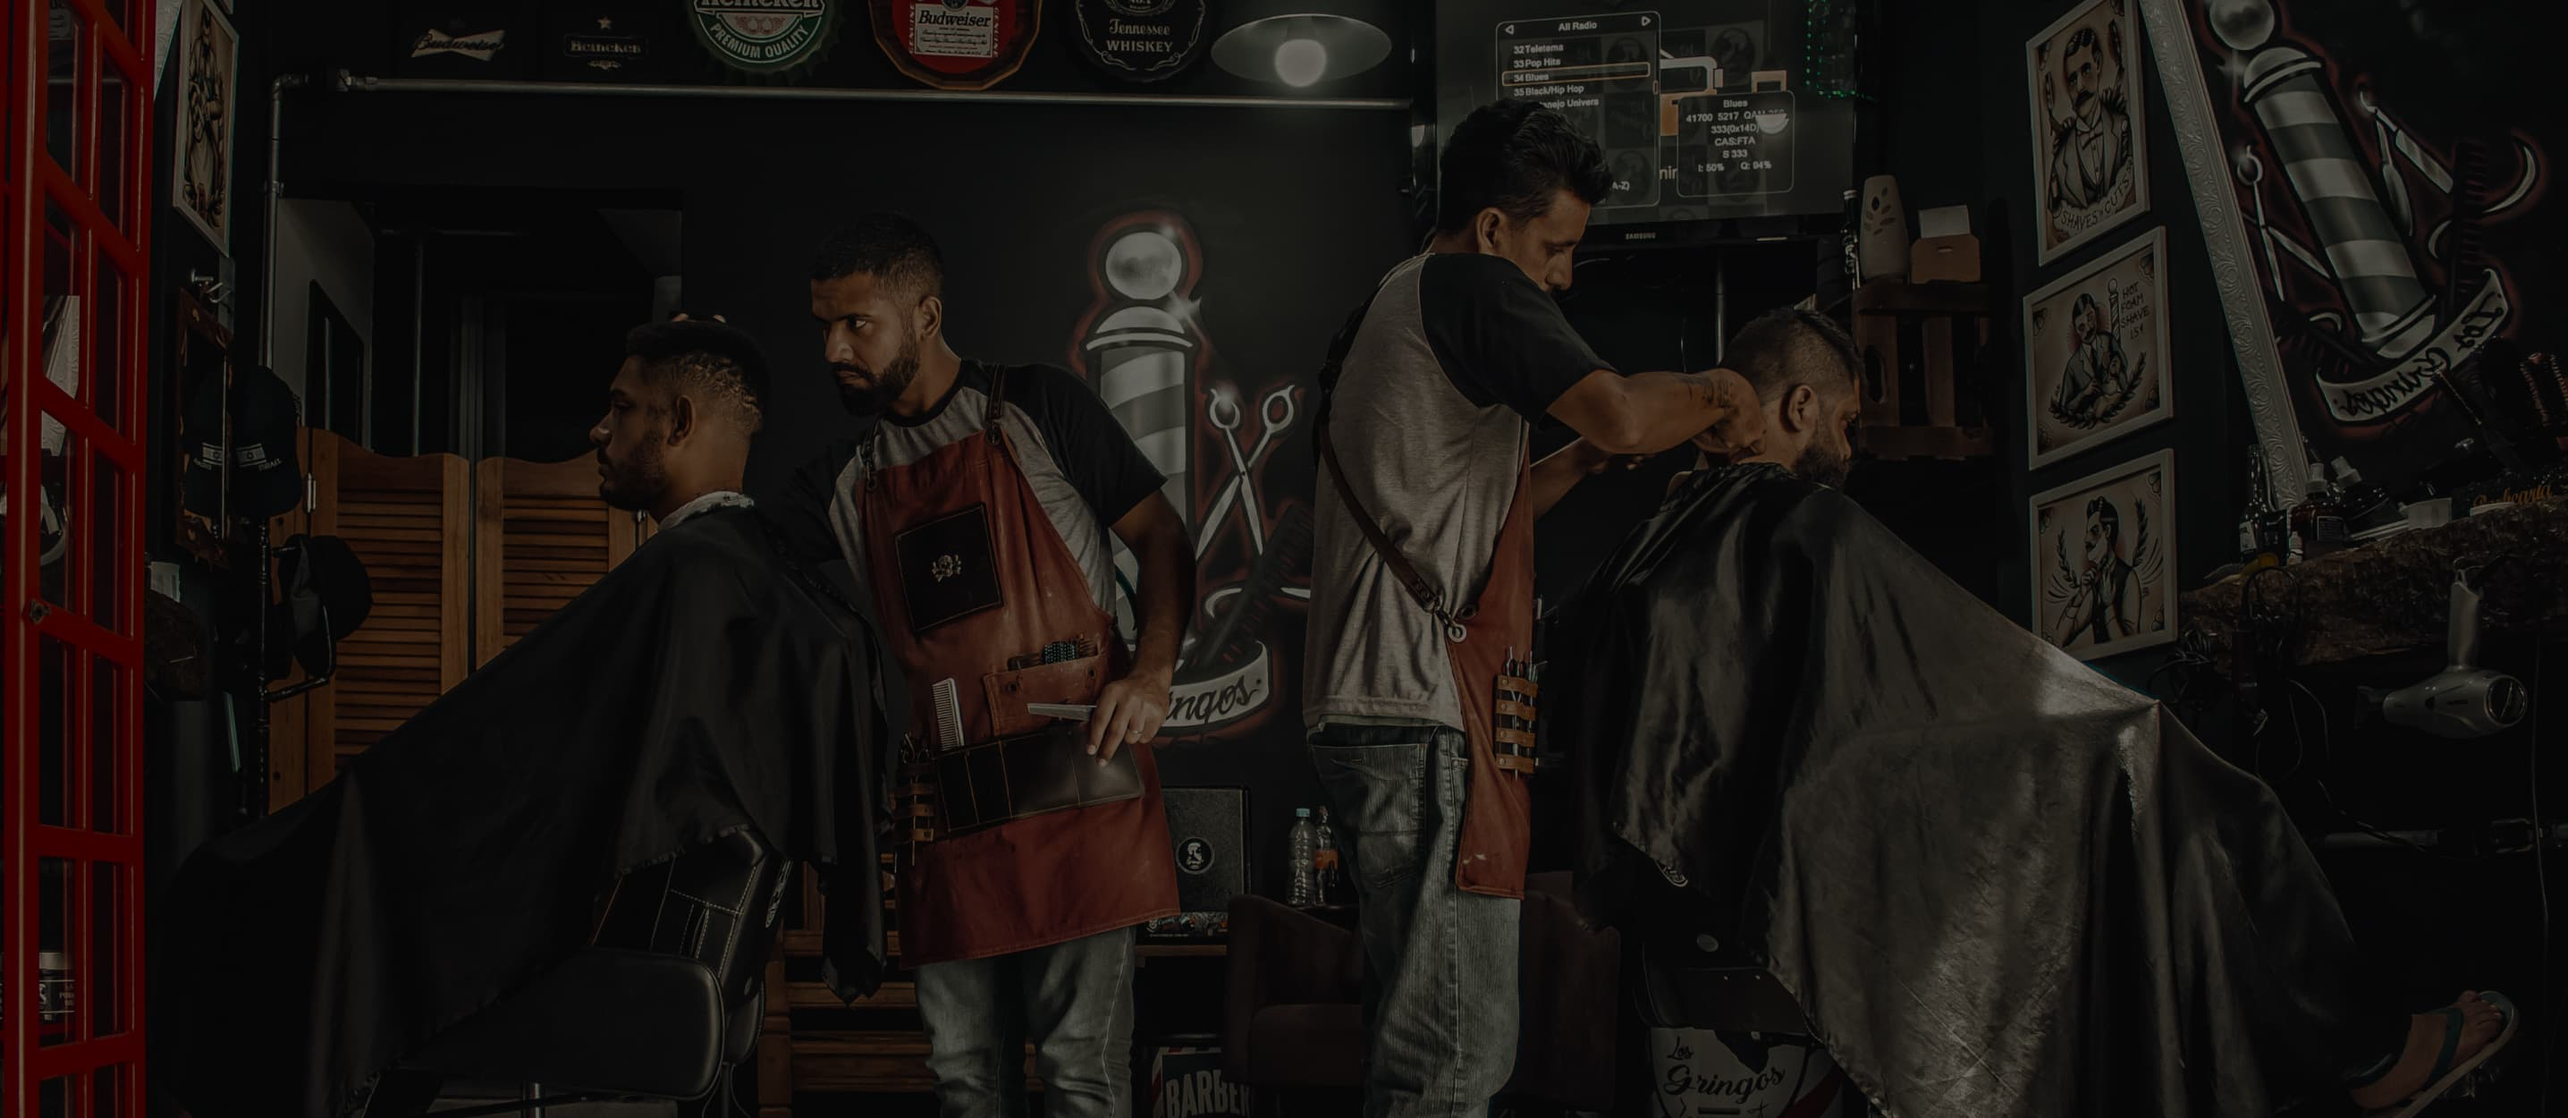
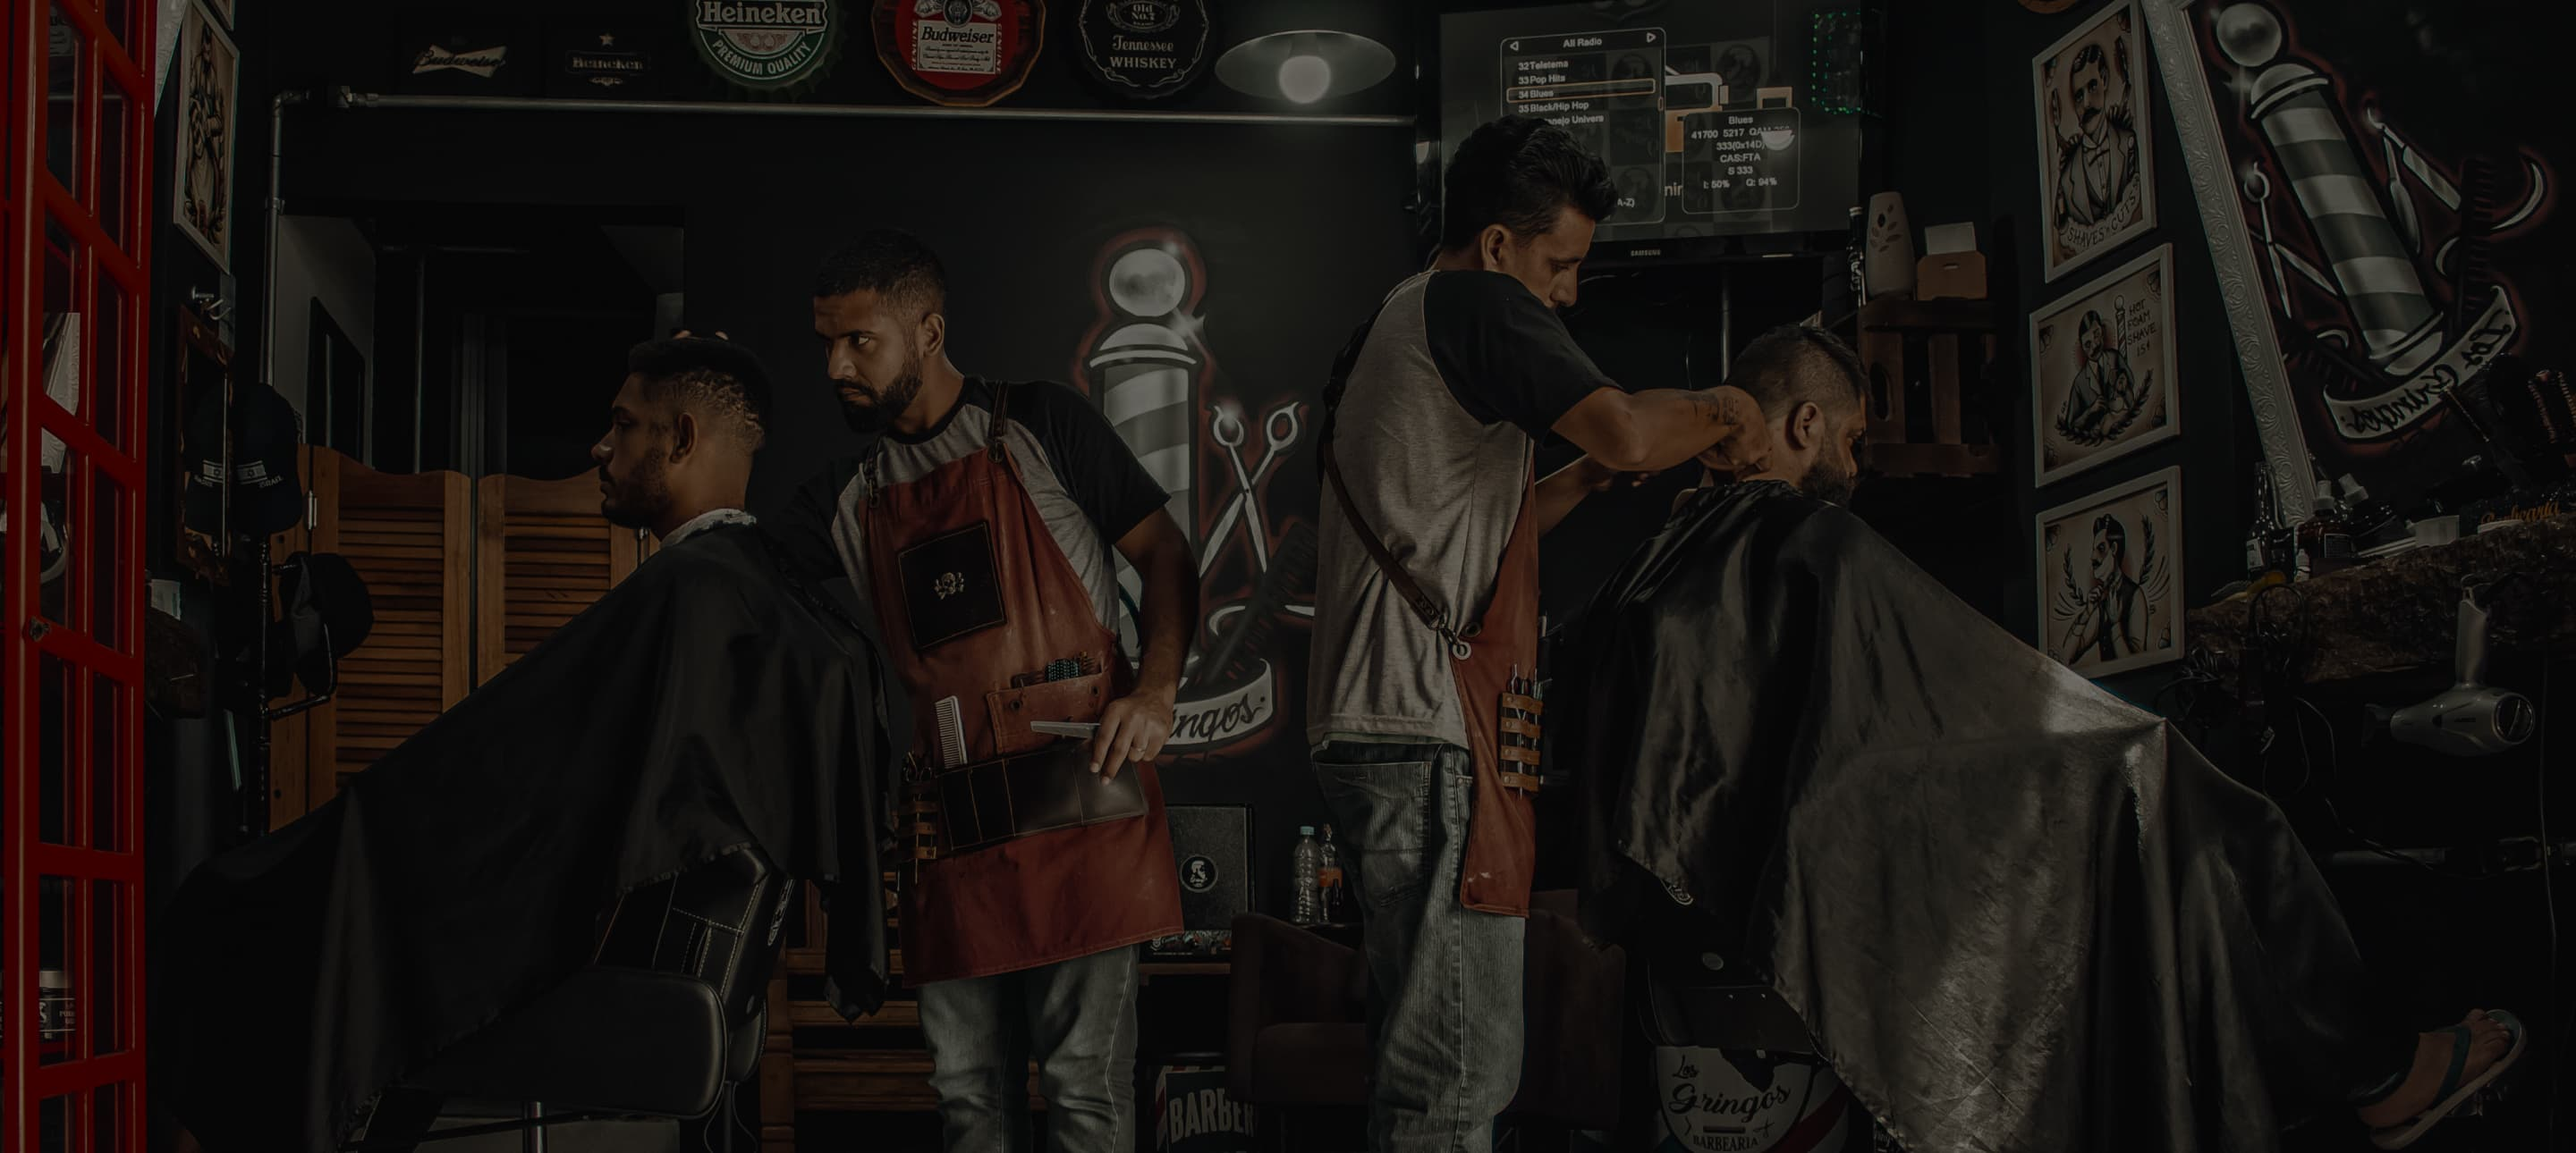
header

diff --git a/css/header/header.css b/css/header/header.css
@@ -5,16 +5,21 @@ ul {
   color: white;
   font-family: sans-serif;
 }
+.background-container{
+  max-width: 1200px;
+}
 
 #header {
-  max-width: 1600px;
-  margin: 0 20px;
+  max-width: 1200px;
+  margin: 0 auto;
   box-sizing: border-box;
   height: 70px;
-  padding: 1rem;
+  padding-top: 40px;
   display: flex;
   align-items: center;
   justify-content: space-between;
+  align-content: center;
+
 }
 
 #menu {
@@ -41,7 +46,9 @@ a {
 
 .header-bg {
   background-image: url('/assets/img/introducao/fundo.jpg');
-  height: 100vh;
+  background-size: cover;
+  background-repeat: no-repeat;
+  height: 90vh;
 
 }
 
@@ -97,10 +104,13 @@ a {
 .botao a {
   color: #fff;
 }
-@media(max-width:600px){
- 
-}
+/* @media(min-width:2000px){
+  .header-bg{
+    background-image: url('/assets/img/introducao/fundo3x.jpg');
+    
 
+  }
+} */
 
 @media(max-width:400px){
   .header-bg{
@@ -125,6 +135,15 @@ a {
     font-size: 0.8rem;
   }
 }
+@media(max-width:220px){
+  .botao{
+    font-size: 0.5rem;
+
+  }
+  .seta{
+    width: 10px;
+  }
+}
 
 
 /* Background Mobile */
@@ -132,7 +151,7 @@ a {
 @media (max-width:500px) {
   .header-bg {
 
-    height: 100vh;
+    height: 90vh;
 
   }
 
@@ -145,6 +164,7 @@ a {
 
   #header {
 
+    padding-top: 0px;
     margin: 0 10px;
 
   }
@@ -178,7 +198,7 @@ a {
 
   #btn-mobile {
     display: flex;
-    padding: 0.5rem 1rem;
+    padding: 0.5rem 0rem;
     font-size: 1rem;
     border: none;
     background: none;

diff --git a/index.html b/index.html
@@ -33,20 +33,23 @@
           <li><a class="font-1-p" href="/">Inicio</a></li>
           <li><a class="font-1-p" href="/">Promoções</a></li>
           <li><a class="font-1-p" href="/">Contato</a></li>
-          
+
         </ul>
       </nav>
     </header>
     <div class="botao">
       <a href="/">
         <!-- <div class="bt-estilo"><br></div> -->
-        <div class="botao-1">Agendar Horario <img class = "seta" src="/assets/img/icones/seta.svg" alt=""> </div>
+        <div class="botao-1">Agendar Horario <img class="seta" src="/assets/img/icones/seta.svg" alt=""> </div>
       </a>
 
     </div>
 
 
   </div>
+
+
+
 
   <script src="./js/header/header.js"></script>
 

diff --git a/css/global/global.css b/css/global/global.css
@@ -1,0 +1,29 @@
+body, *{
+  margin: 0;
+  padding: 0;
+  font-family: Sarabun;
+
+}
+
+h1{
+  margin: 0;
+  padding: 0;
+}
+
+a{
+  text-decoration: none;
+}
+.header-menu a{
+  color: #000000;
+  text-decoration: none;
+}
+
+ul{
+  list-style: none;
+  
+}
+
+.font-1rem{
+  font-size: 1.125rem;
+}
+
